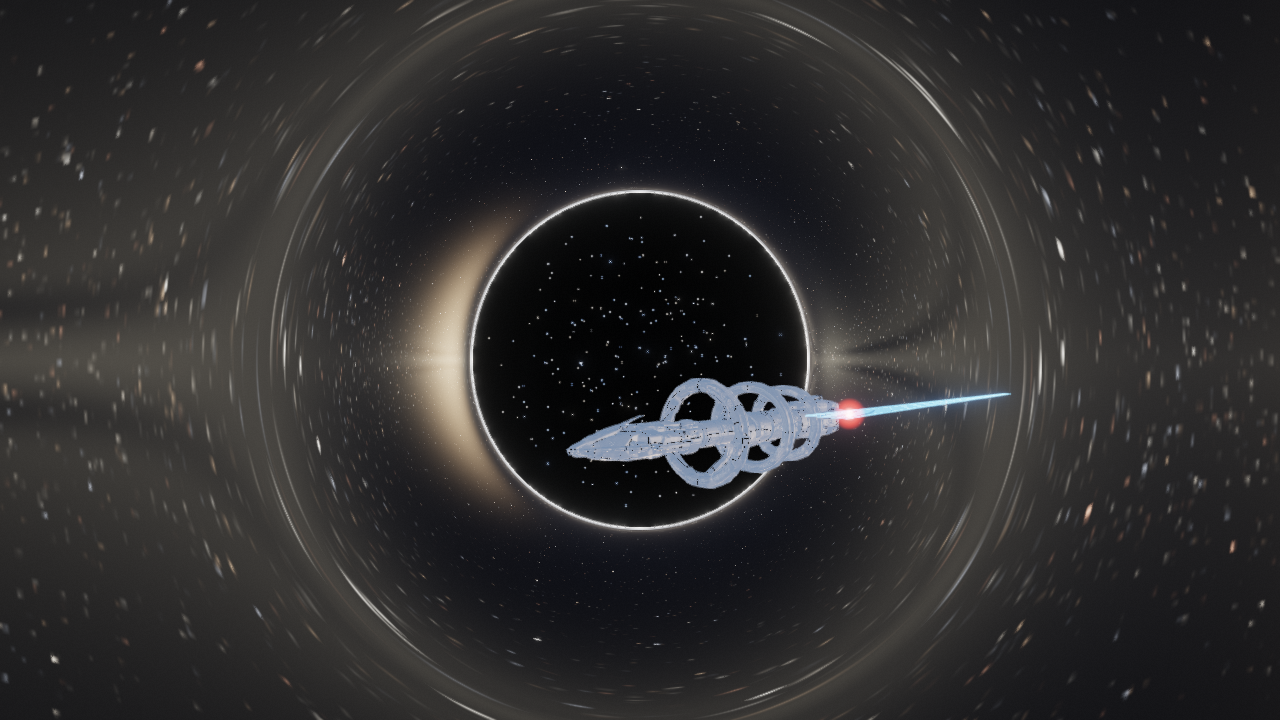
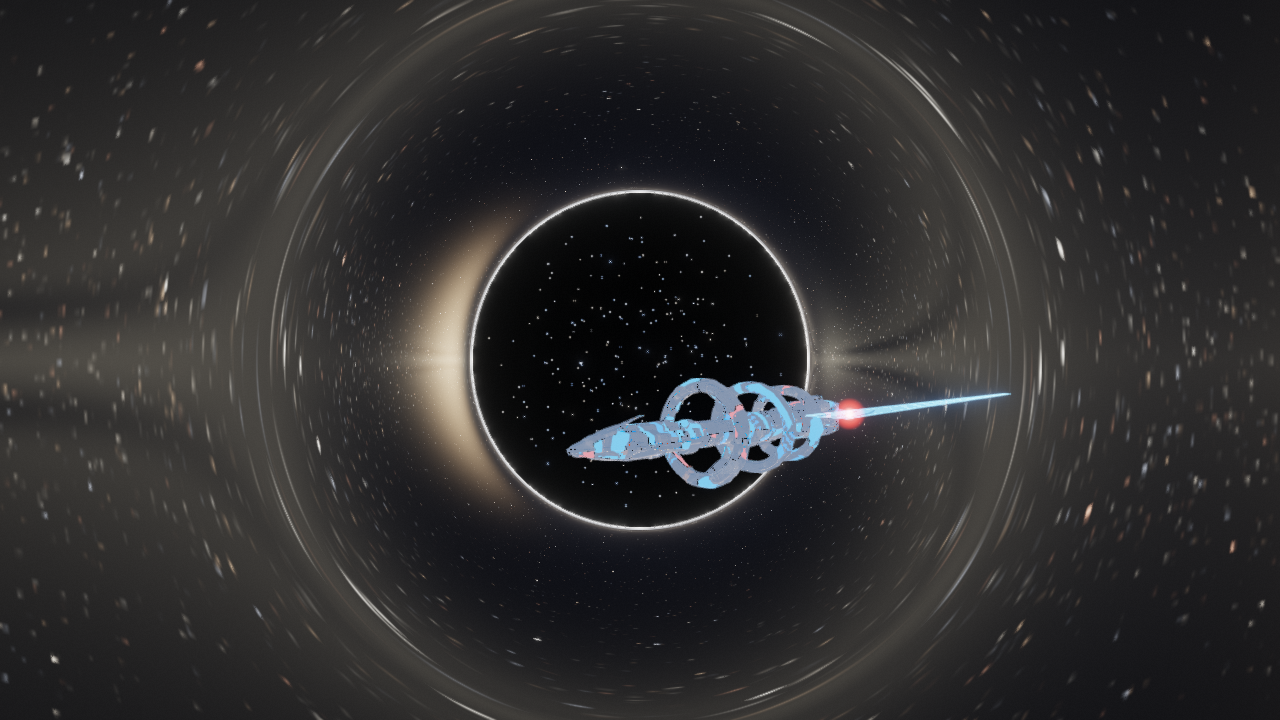
feat(ship): emissive livery map (unit 5) + textureLod0 on model skin path

Changed region(s): [[0.4375, 0.5194, 0.6562, 0.6722]]

diff --git a/src/SceneManager.cpp b/src/SceneManager.cpp
@@ -1816,10 +1816,11 @@ void SceneManager::render(const Camera& camera, int fbWidth, int fbHeight, float
               s_shipShader->setUniform3f("u_InvScale", 1.0f, 1.0f, 1.0f);
               s_shipShader->setUniform1i("u_FlatNormal", 0);
               s_shipShader->setUniform1i("u_SkinOn", 0);
-              s_shipShader->setUniform3f("u_BaseColor",
-                                         glm::vec3(0.86f, 0.90f, 0.96f));
-              s_shipShader->setUniform1f("u_Metal", 0.88f);
-              s_shipShader->setUniform1f("u_Rough", 0.36f);
+              // Окраску несёт livery-альбедо (запечён в экспортёре), поэтому
+              // множитель нейтральный; метал/шершавость — фолбэки, когда карт нет.
+              s_shipShader->setUniform3f("u_BaseColor", glm::vec3(1.0f));
+              s_shipShader->setUniform1f("u_Metal", 0.78f);
+              s_shipShader->setUniform1f("u_Rough", 0.42f);
               // Текстурированный путь: карты в юнитах 1..4 (0 — скайбокс).
               const bool texOn = s_shipModel.textured();
               s_shipShader->setUniform1i("u_TexOn", texOn ? 1 : 0);
@@ -1830,6 +1831,18 @@ void SceneManager::render(const Camera& camera, int fbWidth, int fbHeight, float
                 s_shipShader->setUniform1i("u_MetalTex", 4);
                 s_shipModel.bindTextures(1);
               }
+              // Emissive-карта livery (кольцевой неон, окна, выхлоп): юнит 5.
+              const bool emOn = s_shipModel.emissive();
+              static bool s_texDbg = false;
+              if (!s_texDbg) {
+                s_texDbg = true;
+                std::printf("[ship] ready=%d texOn=%d emOn=%d\n",
+                            s_shipModel.ready() ? 1 : 0, texOn ? 1 : 0,
+                            emOn ? 1 : 0);
+                std::fflush(stdout);
+              }
+              s_shipShader->setUniform1i("u_EmissiveOn", emOn ? 1 : 0);
+              if (emOn) s_shipShader->setUniform1i("u_EmissiveTex", 5);
               // Star Trek-подсветка в варпе: линейный HDR-довесок, умеренный.
               const float wk =
                   std::min(std::max(warpdrive::warpK(), 0.0f), 1.0f);
@@ -1844,6 +1857,7 @@ void SceneManager::render(const Camera& camera, int fbWidth, int fbHeight, float
           // Процедурные части: плоский u_BaseColor, текстуры выключены
           // (у них нет атрибута UV — location 2 не включён).
           s_shipShader->setUniform1i("u_TexOn", 0);
+          s_shipShader->setUniform1i("u_EmissiveOn", 0);  // не утекать из Model-пути
           // Сэмплеры карт всё равно обязаны смотреть в СВОИ юниты: если два
           // сэмплера разного типа делят юнит 0 (кубмап скайбокса), драйвер
           // вправе отбросить draw — корпус рисовался чёрным.

diff --git a/src/ObjModel.cpp b/src/ObjModel.cpp
@@ -183,7 +183,8 @@ ObjModel::~ObjModel() {
   if (m_vbo != 0) glDeleteBuffers(1, &m_vbo);
   if (m_ebo != 0) glDeleteBuffers(1, &m_ebo);
   if (m_vao != 0) glDeleteVertexArrays(1, &m_vao);
-  unsigned int tex[4] = {m_texAlbedo, m_texNormal, m_texRough, m_texMetal};
+  unsigned int tex[5] = {m_texAlbedo, m_texNormal, m_texRough, m_texMetal,
+                         m_texEmissive};
   for (unsigned int t : tex) {
     if (t != 0) glDeleteTextures(1, &t);
   }
@@ -386,13 +387,18 @@ bool ObjModel::loadTextures(const std::string& base) {
   const std::string normal = base + "_normal.bmp";
   const std::string rough = base + "_rough.bmp";
   const std::string metal = base + "_metal.bmp";
+  const std::string emissive = base + "_emissive.bmp";  // опциональна
   unsigned int a = loadTextureFile(albedo);
   unsigned int n = loadTextureFile(normal);
   unsigned int r = loadTextureFile(rough);
   unsigned int m = loadTextureFile(metal);
+  unsigned int e = loadTextureFile(emissive);
+  std::printf("[ship] tex %s: albedo=%u normal=%u rough=%u metal=%u emis=%u\n",
+              base.c_str(), a, n, r, m, e);
+  std::fflush(stdout);
   if (a == 0) {
     // Без albedo набор бессмысленен: чистим частично загруженное.
-    unsigned int extra[3] = {n, r, m};
+    unsigned int extra[4] = {n, r, m, e};
     for (unsigned int t : extra) {
       if (t != 0) glDeleteTextures(1, &t);
     }
@@ -402,16 +408,19 @@ bool ObjModel::loadTextures(const std::string& base) {
   if (m_texNormal != 0) glDeleteTextures(1, &m_texNormal);
   if (m_texRough != 0) glDeleteTextures(1, &m_texRough);
   if (m_texMetal != 0) glDeleteTextures(1, &m_texMetal);
+  if (m_texEmissive != 0) glDeleteTextures(1, &m_texEmissive);
   m_texAlbedo = a;
   m_texNormal = n;
   m_texRough = r;
   m_texMetal = m;
+  m_texEmissive = e;
   return true;
 }
 
 void ObjModel::bindTextures(int firstUnit) const {
-  const unsigned int tex[4] = {m_texAlbedo, m_texNormal, m_texRough, m_texMetal};
-  for (int i = 0; i < 4; ++i) {
+  const unsigned int tex[5] = {m_texAlbedo, m_texNormal, m_texRough, m_texMetal,
+                               m_texEmissive};
+  for (int i = 0; i < 5; ++i) {
     glActiveTexture(GL_TEXTURE0 + firstUnit + i);
     glBindTexture(GL_TEXTURE_2D, tex[i]);
   }

diff --git a/src/ObjModel.h b/src/ObjModel.h
@@ -33,17 +33,19 @@ class ObjModel {
   bool load(const std::string& path);
 
   // PBR-набор рядом с .obj: <base>_albedo.bmp / _normal.bmp / _rough.bmp /
-  // _metal.bmp. Возвращает false, если не нашлось ни одной карты (меш при
-  // этом остаётся годным — плоский металл).
+  // _metal.bmp / (опционально) _emissive.bmp. Возвращает false, если не
+  // нашлось ни одной карты (меш при этом остаётся годным — плоский металл).
   bool loadTextures(const std::string& base);
 
   bool ready() const { return m_indexCount > 0; }
   bool textured() const { return m_texAlbedo != 0; }
+  bool emissive() const { return m_texEmissive != 0; }
 
   // Единичный масштаб: baked экспорт сцентрирован в 0.0 и растянут в LENGTH.
   void draw() const;
 
-  // Привязка карт к юнитам firstUnit..firstUnit+3 (albedo, normal, rough, metal).
+  // Привязка карт к юнитам firstUnit..firstUnit+4 (albedo, normal, rough,
+  // metal, emissive).
   void bindTextures(int firstUnit) const;
 
   const glm::vec3& center() const { return m_center; }
@@ -58,6 +60,7 @@ class ObjModel {
   unsigned int m_texNormal = 0;
   unsigned int m_texRough = 0;
   unsigned int m_texMetal = 0;
+  unsigned int m_texEmissive = 0;
   glm::vec3 m_center{0.0f};
 };
 
